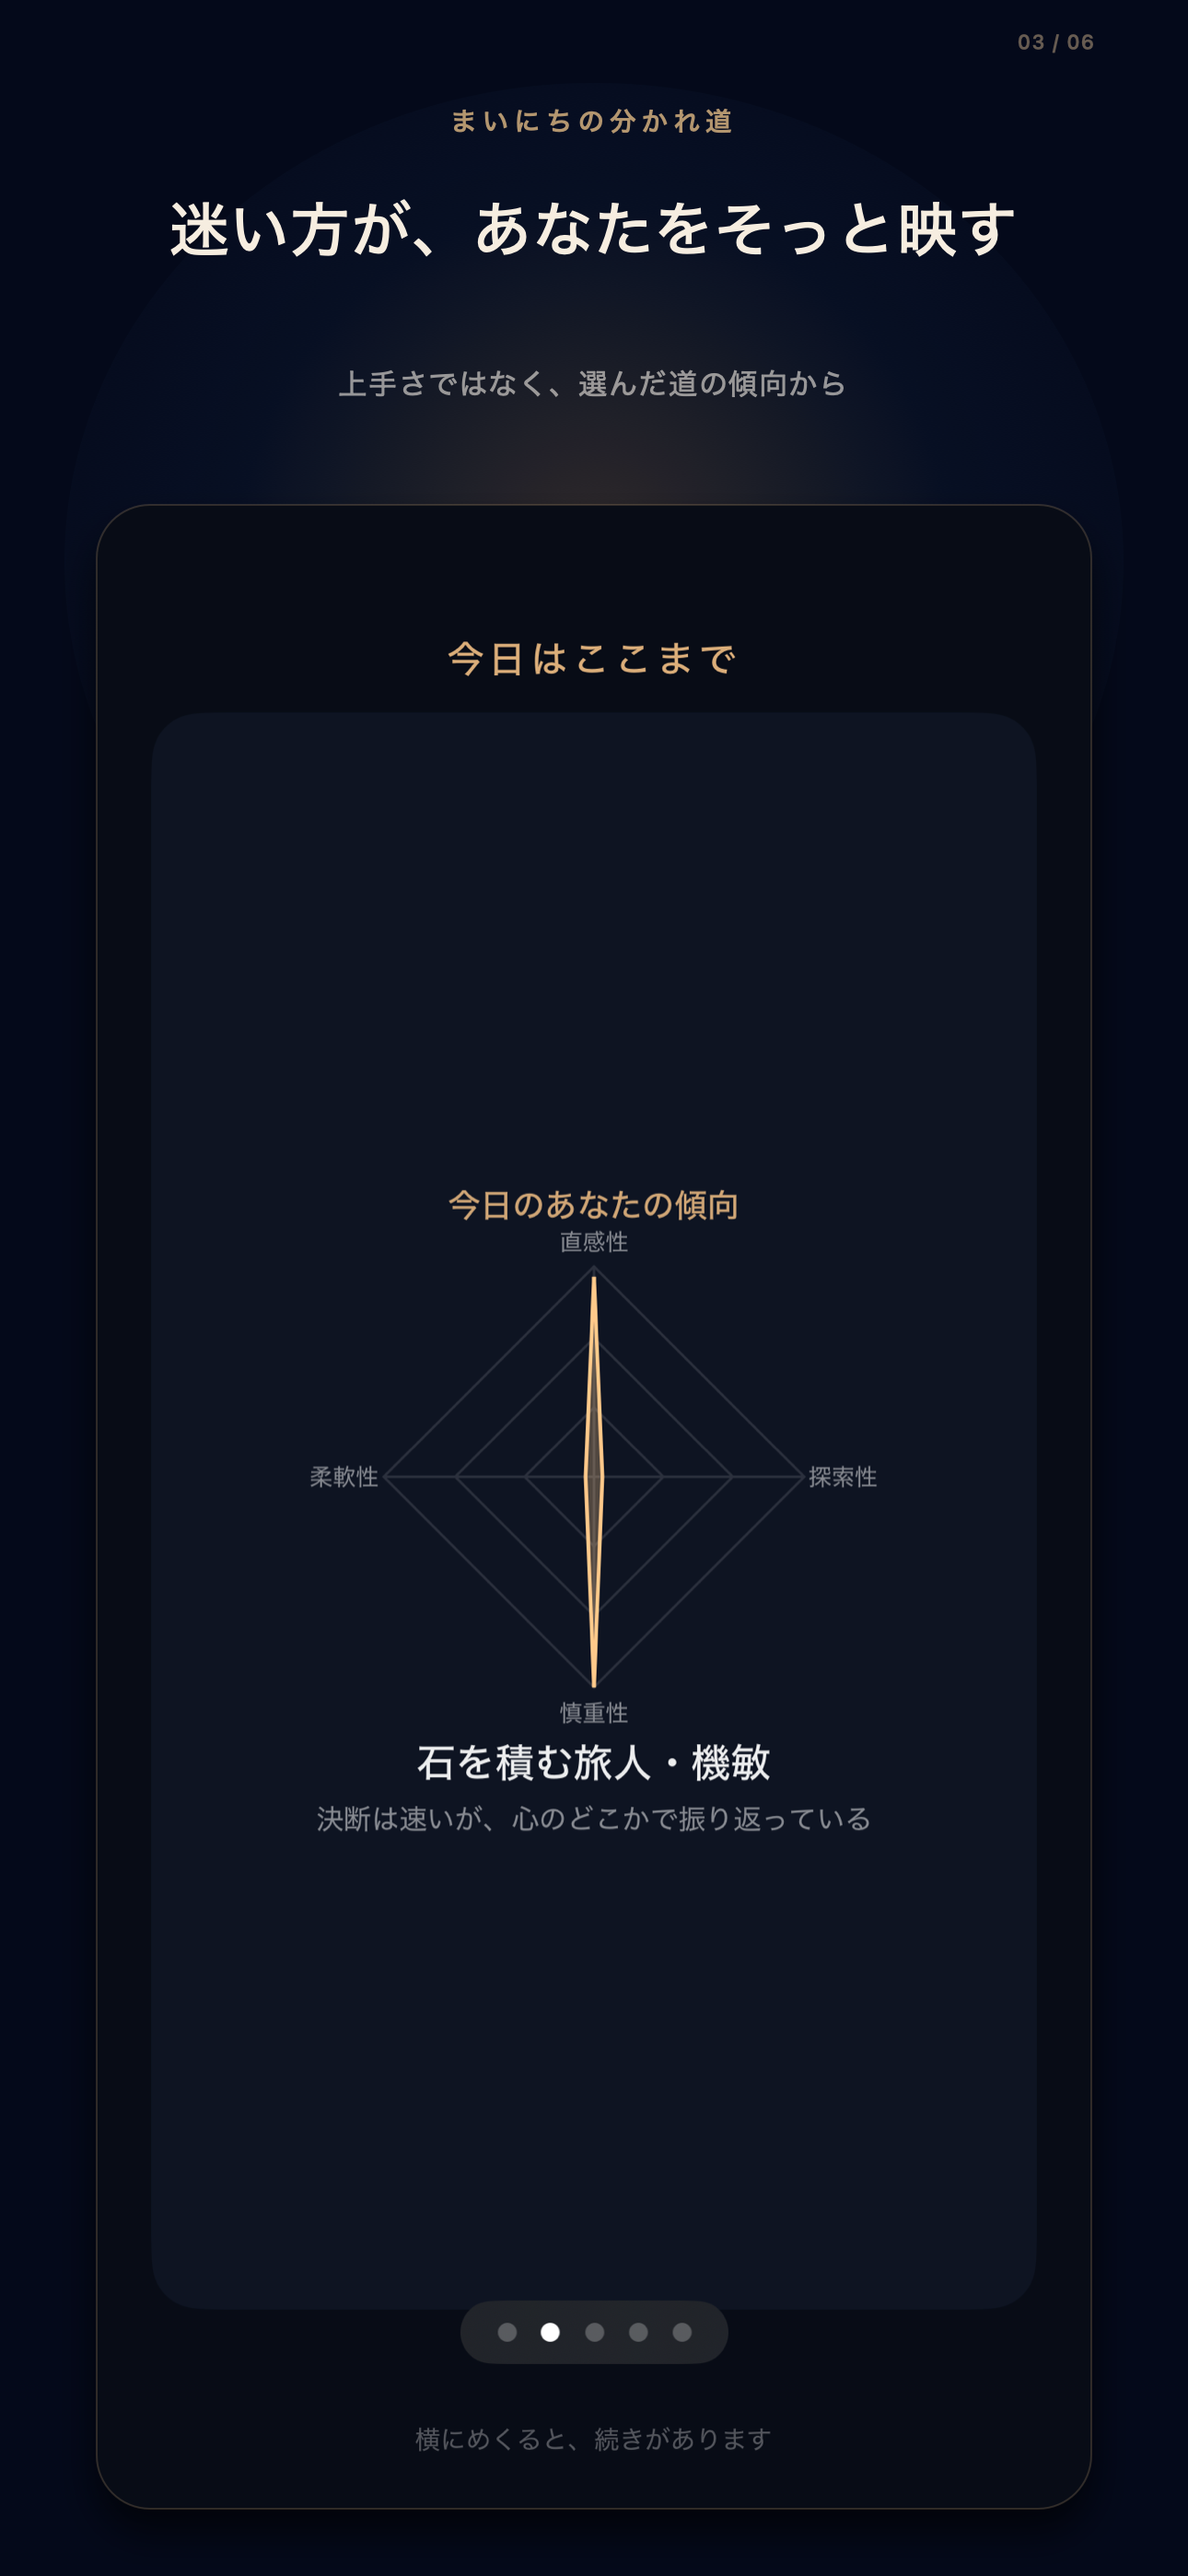
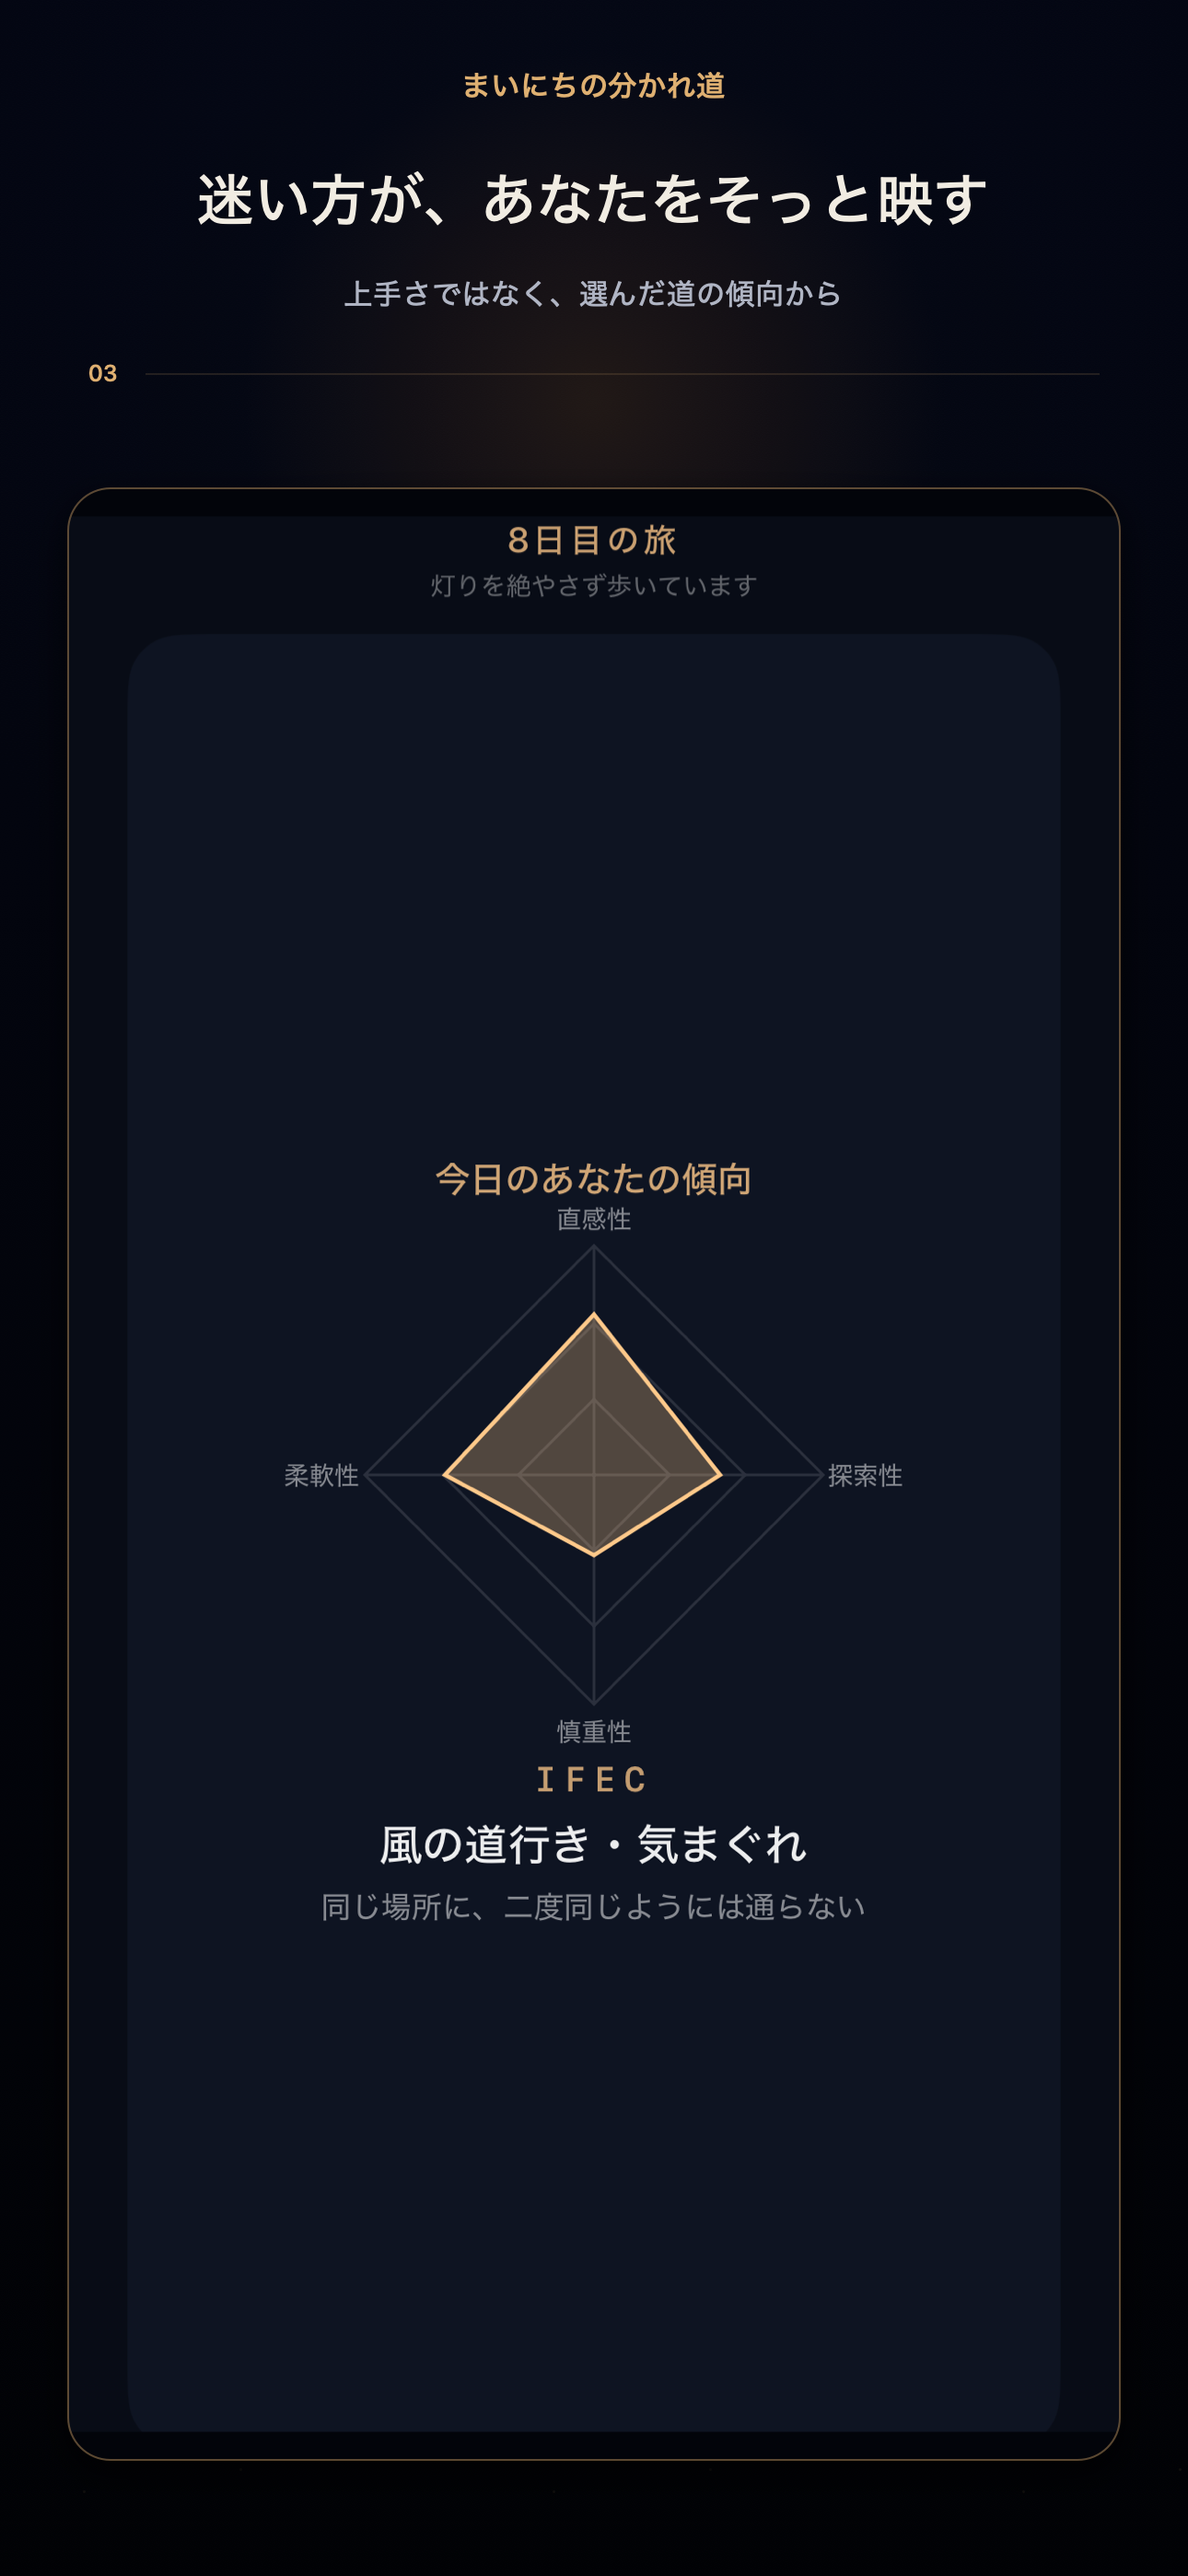
feat: refine app store screenshot assets

diff --git a/docs/STORE_SCREENSHOT_PLAN.md b/docs/STORE_SCREENSHOT_PLAN.md
@@ -1,4 +1,4 @@
-# App Store Screenshot Plan
+# App Store Screenshot Plan v2
 
 ## Direction Lock
 
@@ -7,46 +7,66 @@
 - Supporting direction: C — 結果・自己投影訴求
 - Story: 静かな世界観で惹き、1日1回の探索を見せ、結果・記録・小さな発見・共有へつなぐ。
 - Target: iPhone 6.9-inch screenshot slot, portrait 1290 × 2796 px PNG, opaque.
+- State Snapshot base: `e6dc821452fc965d647f7223e9229a103d6d51e4`
+- Keepsake artwork implementation: `5cb43efd4011b3fd517d93c5c5157bd87a8106cb` (APPROVED)
 
 ## Final Set
 
 | # | Role | Main copy | Supporting copy | Source screen | Final file |
 |---|---|---|---|---|---|
 | 1 | 世界観フック | 1日1回、霧の迷路へ | 小さな灯りをたよりに、今日の道を歩く | Fog of War中の探索画面 + HUD | `final/01-daily-fog-maze.png` |
-| 2 | 探索体験 | 進んだ道が、今日の結果になる | 歩いた軌跡を、静かに振り返る | 結果画面「今日の探検結果」 | `final/02-path-becomes-result.png` |
-| 3 | 結果・自己投影 | 迷い方が、あなたをそっと映す | 上手さではなく、選んだ道の傾向から | 結果画面「今日のあなたの傾向」 | `final/03-reflection-in-choices.png` |
-| 4 | 習慣化・継続 | 毎日の一歩が、旅の記録になる | 歩いた日々が、少しずつ積み重なる | 旅の記録（履歴と持ち帰ったもの） | `final/04-daily-journey-record.png` |
-| 5 | コレクション | 小さな発見を、少しずつ集める | 迷路から持ち帰る、八つの小さなもの | 旅の記録「持ち帰ったもの」 | `final/05-small-discoveries.png` |
-| 6 | 共有 | 今日の結果を、やさしく共有 | 迷路の答えは見せず、旅の余韻だけを | アプリの共有専用カード | `final/06-gentle-sharing.png` |
+| 2 | 探索体験 | 進んだ道が、今日の結果になる | 歩いた軌跡を、静かに振り返る | 82歩・探索率38%の結果画面 | `final/02-path-becomes-result.png` |
+| 3 | 結果・自己投影 | 迷い方が、あなたをそっと映す | 上手さではなく、選んだ道の傾向から | 4軸が判別できる傾向カード | `final/03-reflection-in-choices.png` |
+| 4 | 習慣化・継続 | 毎日の一歩が、旅の記録になる | 歩いた日々が、少しずつ積み重なる | 8日分の旅の履歴 | `final/04-daily-journey-record.png` |
+| 5 | コレクション | 小さな発見を、少しずつ集める | 迷路から持ち帰る、八つの小さなもの | 5/8取得済みのKeepsake shelf | `final/05-small-discoveries.png` |
+| 6 | 共有 | 今日の結果を、やさしく共有 | 迷路の答えは見せず、旅の余韻だけを | 最新の共有専用カード | `final/06-gentle-sharing.png` |
 
 ## Raw-to-Final Traceability
 
-- `raw/01-gameplay-center.png` → final 1
-- `raw/03-result-trail.png` → final 2
-- `raw/04-result-tendency.png` → final 3
-- `raw/05-collection.png` → final 4 and 5（5は同画面の持ち帰ったもの領域を拡大）
-- `raw/06-share-card.png` → final 6
-- `raw/02-gameplay-goal.png`, `raw/07-traveler-picker.png`, `raw/08-result-omen.png` are retained alternatives.
+- `raw/v2-01-gameplay.png` → final 1
+- `raw/v2-02-result-trail.png` → final 2
+- `raw/v2-03-tendency.png` → final 3
+- `raw/v2-04-journey-history.png` → final 4
+- `raw/v2-05-keepsake-shelf.png` → final 5
+- `raw/v2-06-share-card.png` → final 6
+- `contact-sheet-v2.png` → 6枚を順番に並べたVisual QA evidence
+- v1 rawは比較・履歴用に保持し、v2の新evidenceとしては使用していない。
+
+## v1 Review Findings and v2 Response
+
+- 01: 大きな暗部を外し、迷路・旅人・灯りを拡大。実HUDを別の実UIクロップで保持した。
+- 02: 18歩の短いfixtureを、82歩・探索率38%・複数回曲がる軌跡へ変更した。
+- 03: 一本線に近いfixtureを、4方向へ面積が見える軸値へ変更した。
+- 04: 同じ暗いサムネイルではなく、異なる8つの軌跡を大きく表示した。
+- 05: 文字中心の旧Collectionから、実装済みKeepsake artworkと5/8 counterを主役にした。
+- 06: 完成度の高かった構成を維持し、最新の結果値・Keepsakeへ再renderした。
 
 ## Why This Sequence
 
 1. 霧・灯り・旅人で、説明より先に世界観を伝える。
 2. 探索が単なる迷路ではなく、軌跡として結果へつながることを示す。
 3. 診断を断定的に売らず、「そっと映す」という距離感で独自性を示す。
-4. 1日単位の記録で習慣化価値を伝える。
-5. 小さな収集動機を見せる。
+4. 8日分の実履歴で習慣化価値を伝える。
+5. 実画像と未取得silhouetteで、小さな収集動機を見せる。
 6. 最後にネタバレのない共有で、体験がアプリ外へ続くことを示す。
 
 ## Truthfulness Guardrails
 
-- すべて実装済みの実UIまたはアプリ内の共有専用Viewを使用。
+- すべて実装済みの実UI、アプリ内ShareCard、deterministic fixtureのみを使用。
 - 迷路の完全構造・正解ルートは共有画像に含めない。
 - 広告、課金、設定、Privacy機能は主役にしない。
-- 実装されていない報酬・レアリティ・物語効果は追加しない。
-- 加工は背景、余白、見出し、枠、実画面の比率維持配置に限定。
+- 実装されていない報酬・レアリティ・物語・SNS機能は追加しない。
+- 加工は背景、余白、見出し、枠、比率維持のscale/crop、控えめな光に限定。
+- 05のKeepsakeはUI外へ並べず、実装済みCollection shelfをそのまま使用。
+
+## Human Visual Gate
+
+- App Store Screenshot v2: IMPLEMENTED / HUMAN VISUAL REVIEW PENDING
+- 6枚のcopy、順序、実UIの可読性をHuman Gateで確認してから提出へ進む。
+- 現時点ではFinal submission-readyとは扱わない。
 
 ## Future Improvement
 
-- 実機の正式提出OSで同日の「クリア済み探索」「7日以上の履歴」を再撮影し、rawをリリースビルド由来へ統一する。
-- 6.9-inchの別accepted sizeや追加ローカライズが必要になった場合は、同一レイアウト比率で書き出す。
+- 実機の正式提出OSで同じ6状態を再撮影し、Simulator fixtureとの差を比較する。
+- App Store Connectの実際の縮小プレビューでheadlineと04/05の細部可読性を確認する。
 - Product Page Optimizationを行う場合は、1枚目だけ「旅人中心」と「迷路中心」でA/B比較する。

diff --git a/docs/STORE_SCREENSHOT_PRODUCTION_NOTES.md b/docs/STORE_SCREENSHOT_PRODUCTION_NOTES.md
@@ -1,52 +1,77 @@
-# App Store Screenshot Production Notes
+# App Store Screenshot v2 Production Notes
 
 ## Deliverables
 
-- Raw screenshots: 8 PNG files in `docs/store-assets/raw/`
-- Final screenshots: 6 PNG files in `docs/store-assets/final/`
+- New raw screenshots: 6 PNG files in `docs/store-assets/raw/` with `v2-` names
+- Canonical final screenshots: 6 PNG files in `docs/store-assets/final/`
+- Contact sheet: `docs/store-assets/contact-sheet-v2.png`
 - Final size: 1290 × 2796 px portrait
 - Final format: PNG, RGB, no alpha channel
 
-The size follows Apple’s currently accepted 6.9-inch iPhone screenshot size. All six files use the same dimensions and format.
-
 ## Capture Method
 
-- Gameplay and result sources were taken from existing simulator visual-validation captures.
-- Collection was rendered from the existing `CollectionView` test fixture with eight deterministic `DailyRun` entries.
-- Share was rendered from the existing pure `ShareCardView` / `ShareImageRenderer` using deterministic test content.
-- A temporary test-only write line was used to export the share card and then restored byte-for-byte. No production or test source difference remains.
-- No production feature, game rule, SwiftData schema, Bundle ID, AdMob ID, or StoreKit ID was changed.
+- 01–05 were newly rendered from current app UI using deterministic test fixtures; no v1 raw was reused as new evidence.
+- 01 uses the real `MazePlayView` / `MazeScene` at a multi-direction explored area, including Fog of War, traveler, floor/wall textures, HUD, stamina, and minimap.
+- 02 uses the real Result trail card with 82 steps, 74 seconds, 38% exploration, one chest, and a multi-turn trail.
+- 03 uses the real tendency card with balanced four-axis values so its shape is visually legible.
+- 04 uses the real Collection history with eight deterministic completed `DailyRun` records and distinct paths/seeds.
+- 05 uses the latest real Keepsake shelf with five acquired artwork items and three locked silhouettes.
+- 06 was newly rendered from the current pure `ShareCardView` / `ShareImageRenderer` with the same deterministic result content.
+- Capture-only properties and the focused capture test were temporary and restored byte-for-byte before production assets were copied. No Swift source or test diff remains.
+- No production feature, game rule, SwiftData schema, Bundle ID, AdMob ID, StoreKit ID, audio, or Xcode configuration changed.
 
-## Design System
+## Final Composition
 
-- Background: deep indigo/black.
-- Accent: restrained warm lantern gold.
-- Typography: large system Japanese heading, short muted supporting line.
-- Layout: generous top copy area, one dominant real UI panel, consistent 01–06 sequence marker.
-- Decoration: subtle radial light, thin warm border, soft shadow only.
+- Background: deep indigo/black with a restrained warm radial light.
+- Accent: warm lantern gold used for app title, thin rule, slide marker, and panel edge.
+- Typography: large system Japanese headline with one short supporting line.
+- Layout: one dominant real UI panel per slide; slide 01 combines two crops from the same real screen to retain both maze and HUD without a large empty region.
+- Decoration: subtle light, thin border, and soft shadow only.
+- No fake UI, reward, rarity, story, or social feature was introduced.
 
 ## Review Cycle
 
-### Initial draft
+### Draft 1
 
-- Confirmed the six selected screens and copy hierarchy.
-- Found a compositor coordinate-system inversion during visual QA.
-- The first corrected draft also placed copy below the screen, reducing store-list scanability.
+- The compositor treated simulator PNG point size as pixel size, causing invalid crops and large black regions.
+- Rejected during contact-sheet review before repository integration.
+
+### Draft 2
+
+- Switched source handling to actual pixel dimensions.
+- Verified 02's 82-step trail, 03's four-axis radar, 04's eight distinct history paths, and 05's 5/8 artwork shelf.
+- Found a partial header fragment in 01, a partial shelf fragment in 04, and oversized blank framing around 06.
 
 ### Final refinement
 
-- Corrected orientation without altering source screenshots.
-- Moved headline and supporting copy above the real UI panel.
-- Reframed slide 5 to make acquired and unacquired keepsakes readable.
-- Kept slide 6 free of maze/path/coordinate data.
+- Removed 01's partial header while keeping the traveler and explored branches large.
+- Reframed 04 around the daily statistics and eight visible trail cards.
+- Kept 05 focused on the complete shelf rather than duplicating 04.
+- Preserved the 4:5 ShareCard aspect ratio on 06 and removed unnecessary internal letterboxing.
 
-## Final Self-review
+## Mechanical Validation
 
-- Each slide has one distinct role: PASS
-- Main copy is short and readable: PASS
-- Six slides use one visual language: PASS
-- Real UI remains the dominant visual: PASS
+- Six canonical files exist: PASS
+- Every final file is 1290 × 2796: PASS
+- Every final file is PNG: PASS
+- Every final file reports no alpha channel: PASS
+- Japanese headline/supporting copy matches the locked specification: PASS
+- Raw-to-final traceability is documented: PASS
+- Contact sheet generated and reviewed in 01–06 order: PASS
+- Production Swift/test diff after capture teardown: 0
+
+## Visual Self-review
+
+- 01 introduces the world with visible traveler, light, maze, Fog of War, and HUD: PASS
+- 02 communicates play → result with a sufficiently dense, multi-turn trail: PASS
+- 03 communicates self-reflection with a readable four-axis shape and title: PASS
+- 04 communicates continuity with eight distinct completed-day thumbnails: PASS
+- 05 communicates collection with acquired artwork, locked silhouettes, and 5/8: PASS
+- 06 communicates spoiler-free sharing and contains no maze answer/path/coordinates: PASS
+- Main copy remains readable in the six-up contact sheet: PASS
 - No exaggerated claim or fabricated feature: PASS
-- Japanese copy spelling and punctuation: PASS
-- Raw-to-final mapping documented: PASS
-- Final files are 1290 × 2796 and opaque: PASS
+
+## Gate Status
+
+- App Store Screenshot v2: IMPLEMENTED / HUMAN VISUAL REVIEW PENDING
+- These files are not yet declared final submission-ready.

diff --git a/docs/PROJECT_STATE.md b/docs/PROJECT_STATE.md
@@ -8,31 +8,36 @@ v1.0 Release Candidate
 
 ## Keepsake Artwork Integration
 
-- Keepsake artwork: IMPLEMENTED / VALIDATION PASS / REVIEW PENDING
-- Collection visual shelf: IMPLEMENTED / VALIDATION PASS / REVIEW PENDING
-- Store screenshot readiness: Keepsake artwork ready; final store screenshot recapture pending
+- Keepsake artwork: APPROVED
+- Collection visual shelf: APPROVED
+- Store screenshot readiness: Screenshot v2 implemented; Human Visual Review pending
 - SwiftData schema: unchanged
-- Review Target: `5cb43efd4011b3fd517d93c5c5157bd87a8106cb`
-- Latest Reviewed implementation/config commit remains `c7e906a7de34a31432daef9e03abc7d2a66c0b8a` until exact-SHA review.
+- Implementation: `5cb43efd4011b3fd517d93c5c5157bd87a8106cb`
+- Review status: APPROVED
 
-## App Store Screenshot Production
+## App Store Screenshot Production v2
 
 - Direction: B — 世界観 × 習慣化訴求（C — 結果・自己投影訴求を補助）
-- Raw screenshots: 8
+- App Store Screenshot v2: IMPLEMENTED / HUMAN VISUAL REVIEW PENDING
+- New v2 raw screenshots: 6
 - Final screenshots: 6
 - Output: 1290 × 2796 px portrait PNG, opaque
+- State Snapshot base: `e6dc821452fc965d647f7223e9229a103d6d51e4`
+- Review Target: screenshot v2 implementation commit (exact SHA recorded after asset commit)
 - Plan: `docs/STORE_SCREENSHOT_PLAN.md`
 - Assets: `docs/store-assets/raw/`, `docs/store-assets/final/`
+- Contact sheet: `docs/store-assets/contact-sheet-v2.png`
+- Final submission-ready: not declared; Human Visual Gate remains.
 
 # Git Review State
 
 Latest reviewed implementation/config commit:
-`c7e906a7de34a31432daef9e03abc7d2a66c0b8a`
+`5cb43efd4011b3fd517d93c5c5157bd87a8106cb`
 
 State Snapshot base:
-`b0358572e0c7aecf01aef0a0210e4dd9b786cc68`
+`e6dc821452fc965d647f7223e9229a103d6d51e4`
 
-Review target: none / implementation completed
+Review target: App Store Screenshot v2 implementation commit (pending exact SHA)
 
 Latest reviewed implementation/config status: APPROVED
 
@@ -44,9 +49,9 @@ Latest reviewed implementation/config status: APPROVED
 - Release Generic iOS Device unsigned build: PASS
 - `git diff --check`: PASS
 
-Current work unit: Privacy Manifest + UMP Privacy Options + StoreKit v1 Hide — Final Review Receipt / State Sync
+Current work unit: App Store Screenshot Recapture + Marketing Screenshot v2
 
-Current work unit status: FINAL APPROVED / DOCS RECEIPT PENDING EXACT-SHA REVIEW
+Current work unit status: IMPLEMENTED / HUMAN VISUAL REVIEW PENDING
 
 Continuity: Ready
 
